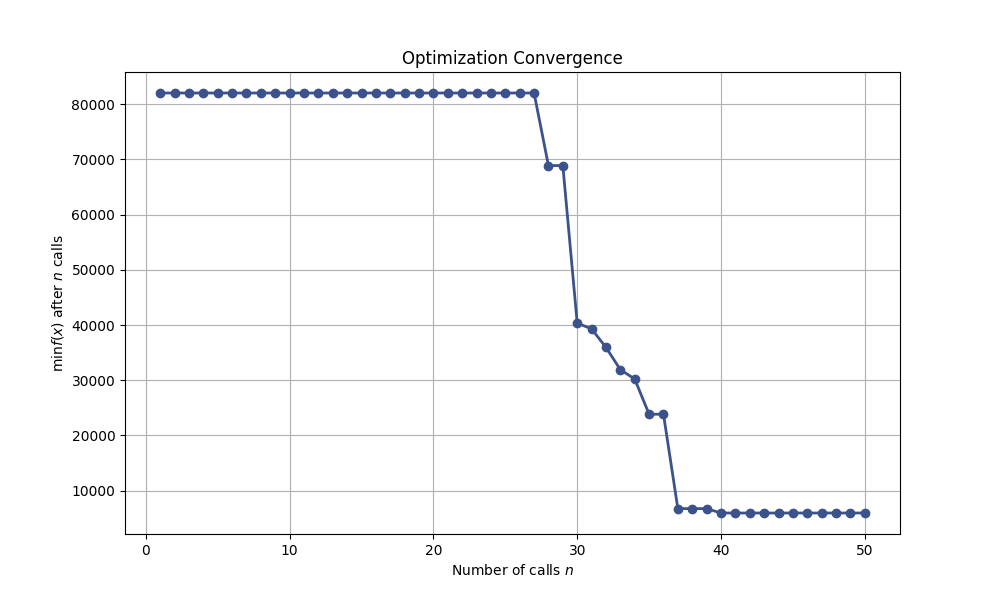
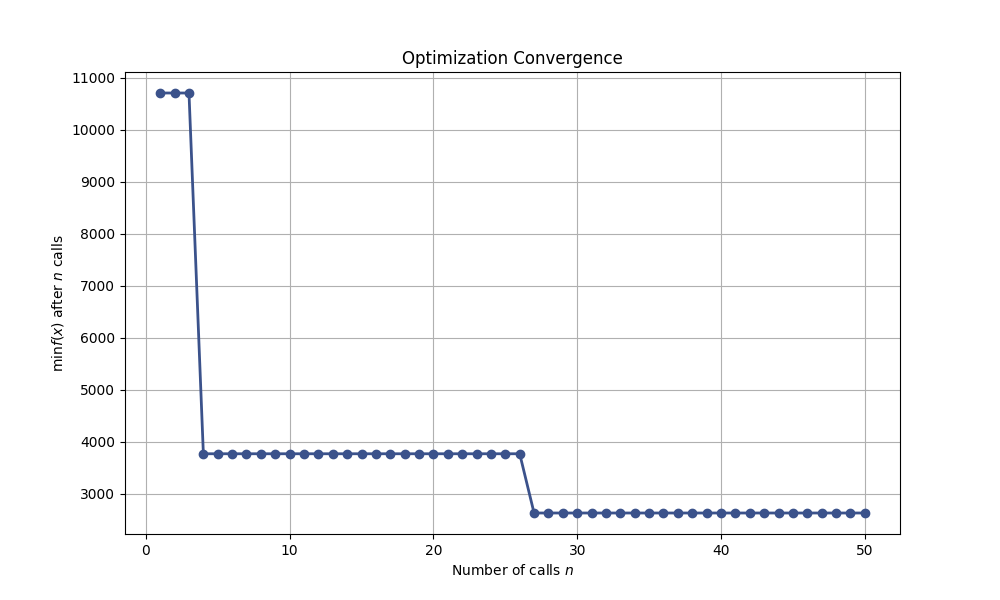
fixed fin offset, first function RD complete

Changed region(s): [[0.062, 0.12, 0.899, 0.87], [0.062, 0.12, 0.124, 0.18]]

diff --git a/Optimizer.py b/Optimizer.py
@@ -217,15 +217,23 @@ class Optimizer:
         # ⚠ CRITICAL: This must match the order in self.space EXACTLY
         # If you switched to Ratios, update these variable names!
         top_tube_length, fin_height, root_chord, tip_chord, \
-        fin_sweep, fin_position, vary_mass, vary_position = best_params
+        fin_sweep, fin_bottom_offset, vary_mass, vary_position = best_params
 
+        fins = self.get_component("Trapezoidal Fin Set") 
+        parent = fins.getParent()
+        calculated_pos_display = None
+        if parent:
+            parent_len = parent.getLength()
+            # Formula: Length - Root - Offset
+            calculated_pos_display = parent_len - root_chord - fin_bottom_offset
+        
         print(f"📝 Applying parameters:\n"
             f"   - Tube Len: {top_tube_length * 100:.2f} cm\n"
             f"   - Fin Height: {fin_height * 100:.2f} cm\n"
             f"   - Fin Root: {root_chord * 100:.2f} cm\n"
             f"   - Fin Tip:  {tip_chord * 100:.2f} cm\n"
             f"   - Sweep:    {fin_sweep * 100:.2f} cm\n"
-            f"   - Fin Pos:  {fin_position * 100:.2f} cm\n"
+            f"   - Fin Pos from top:  {calculated_pos_display * 100:.2f} cm\n"
             f"   - Var Mass: {vary_mass * 1000:.0f} g\n"
             f"   - Var Pos:  {vary_position * 100:.2f} cm\n")
         
@@ -235,20 +243,20 @@ class Optimizer:
         if tube: tube.setLength(top_tube_length)
 
         # --- FINS ---
-        fins = self.get_component("Trapezoidal Fin Set") # Verify this name!
+        fins = self.get_component("Trapezoidal Fin Set") 
         if fins:
             fins.setHeight(fin_height)
             fins.setRootChord(root_chord)
             fins.setTipChord(tip_chord)
             fins.setSweep(fin_sweep)
             
-            # Position Logic
+            # --- APPLY DISTANCE FROM TOP ---
             parent = fins.getParent()
             if parent:
-                tube_len = parent.getLength()
-                pos_from_top = tube_len + fin_position - root_chord
-                if pos_from_top < 0: pos_from_top = 0
-                fins.setAxialOffset(pos_from_top)
+                parent_len = parent.getLength()
+                # Formula: Length - Root - Offset
+                calculated_pos = parent_len - root_chord - fin_bottom_offset
+                fins.setAxialOffset(calculated_pos)
 
         # --- MASS ---
         mass_comp = self.get_component("Var Mass") # Verify this name!

diff --git a/main.py b/main.py
@@ -30,10 +30,10 @@ try:
 
             # Run the Optimizer
             Opt = Optimizer(instance, str(ROCKET_FILE))
-            results = Opt.run_optimizer(TARGET_ALTITUDE, iterations=50)
+            results = Opt.run_optimizer(TARGET_ALTITUDE, iterations=100)
     
             # Report Results
-            UiTools.report_results(results[0])
+            # UiTools.report_results(results[0])
             
             # RUN FINAL VERIFICATION & SAVE
             # results[0].x contains the list of best parameters found
